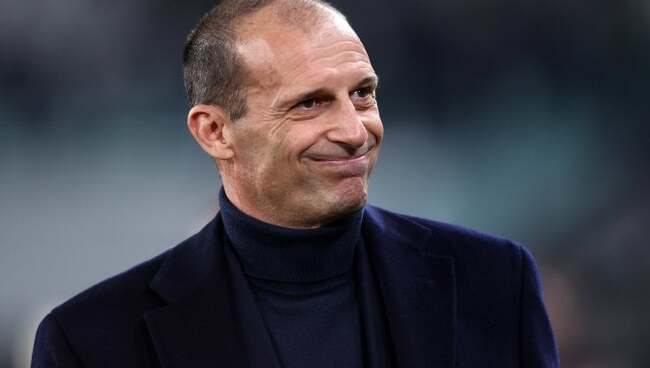
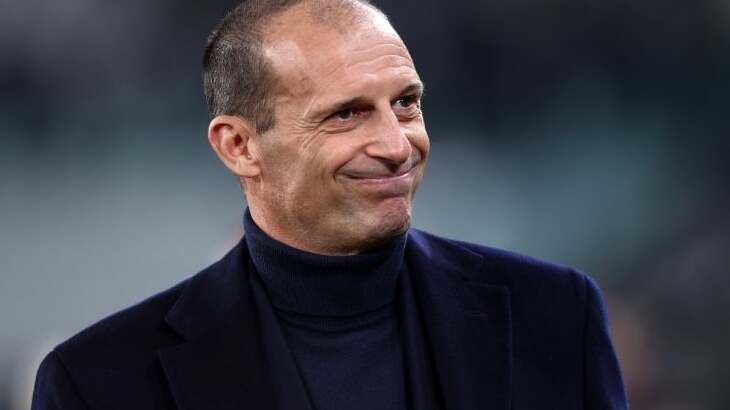
nuovo carosello

diff --git a/frontend/pages/homepage.php b/frontend/pages/homepage.php
@@ -24,7 +24,10 @@ if (empty($_SESSION['user_id'])) {
 
 <?php require_once(__DIR__ . '\navbar.php'); ?>
 
+
 <div id="carouselExampleCaptions" class="carousel slide">
+<h2>Ultime news:</h2>
+<hr>
   <div class="carousel-indicators">
     <button type="button" data-bs-target="#carouselExampleCaptions" data-bs-slide-to="0" class="active" aria-current="true" aria-label="Slide 1"></button>
     <button type="button" data-bs-target="#carouselExampleCaptions" data-bs-slide-to="1" aria-label="Slide 2"></button>
@@ -32,24 +35,24 @@ if (empty($_SESSION['user_id'])) {
   </div>
   <div class="carousel-inner">
     <div class="carousel-item active">
-      <img src="../assets/img/spalletti.jpg" class="d-block w-100" alt="...">
-      <div class="carousel-caption d-none d-md-block">
-        <h5>Josè Mourinho</h5>
-        <p>Mourinho squalificato 2 giornate per insulti all'arbitro.</p>
-      </div>
-    </div>
-    <div class="carousel-item">
       <img src="../assets/img/allegri.jpg" class="d-block w-100" alt="...">
       <div class="carousel-caption d-none d-md-block">
-        <h5>Simone Inzaghi</h5>
-        <p>Spiaze... per il gorgonzola</p>
+        <h5>Max Allegri</h5>
+        <p>Una juve in rimonta</p>
       </div>
     </div>
     <div class="carousel-item">
-      <img src="../assets/img/allegri.png" class="d-block w-100" alt="...">
+      <img src="../assets/img/spalletti.jpg" class="d-block w-100" alt="...">
       <div class="carousel-caption d-none d-md-block">
-        <h5>Max Allegri</h5>
-        <p>Ma c'è poco da stare allegri.</p>
+        <h5>Luciano spalletti</h5>
+        <p>Un Napoli da Record Azzuro</p>
+      </div>
+    </div>
+    <div class="carousel-item">
+      <img src="../assets/img/figc.jpg" class="d-block w-100" alt="...">
+      <div class="carousel-caption d-none d-md-block">
+        
+        <p>Entra a far parte della Figc</p>
       </div>
     </div>
   </div>
